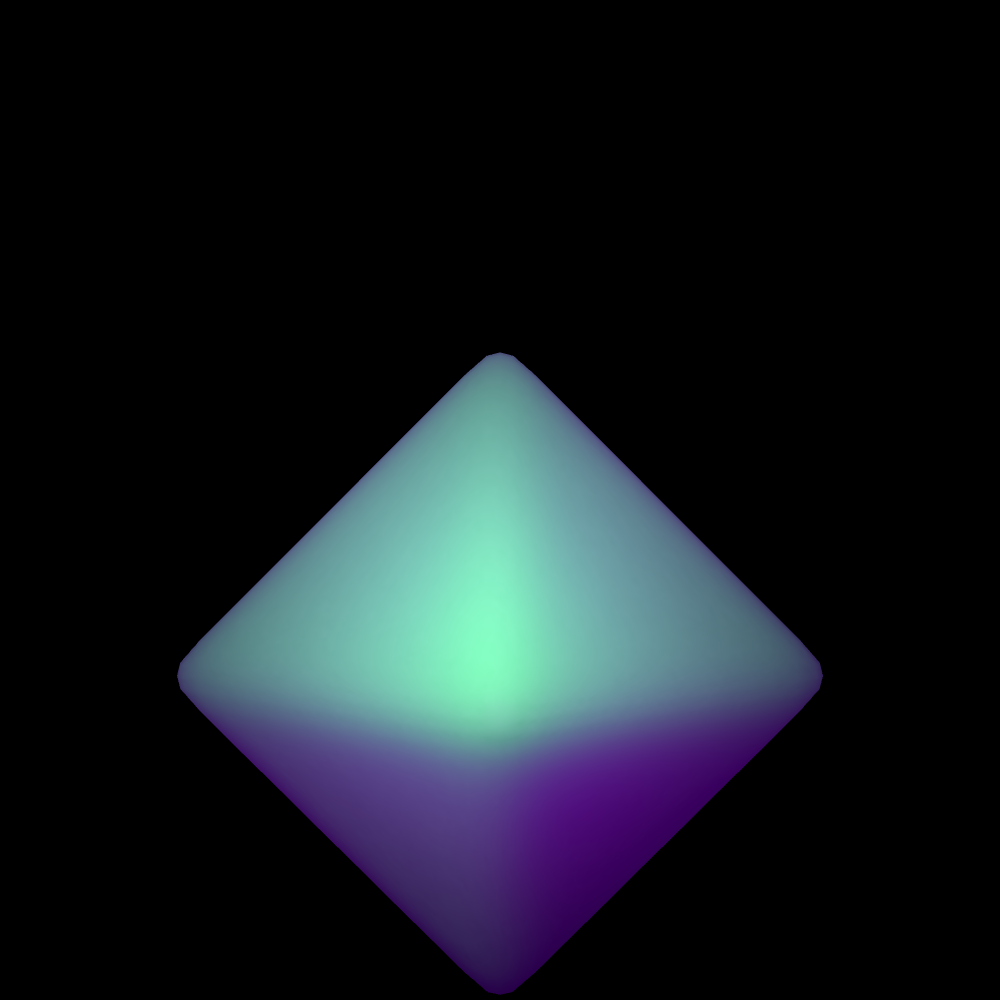
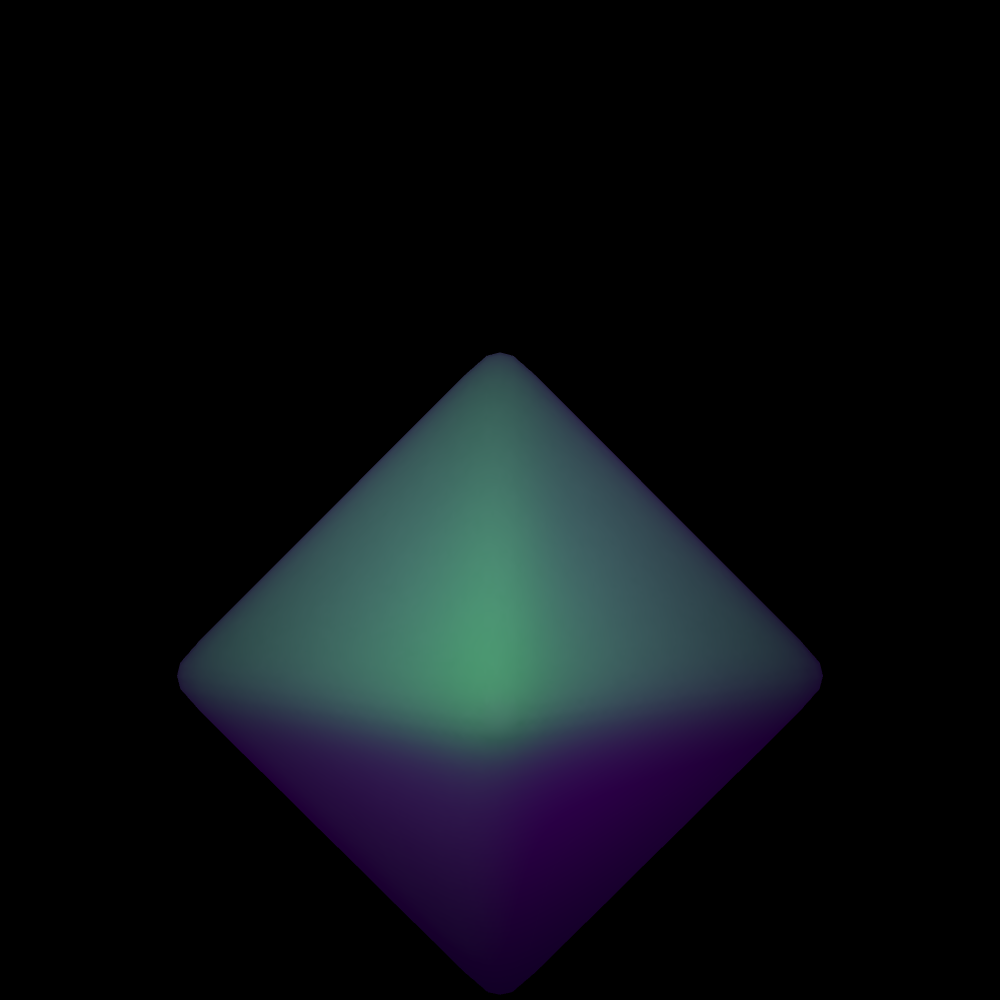
add the missing 1/pi

Changed region(s): [[0.155, 0.341, 0.837, 1.0]]

diff --git a/src/main.py b/src/main.py
@@ -1,22 +1,25 @@
 from __future__ import annotations
-import time
-from typing import NamedTuple
-from OpenGL import GL as gl
-from matplotlib import pyplot as plt
-from pyrr import Vector3
-from camera import Camera
-import luisa
-from luisa.mathtypes import *
-from luisa.accel import offset_ray_origin
-from luisa import RandomSampler
-import moderngl
-import tinyobjloader
-import numpy as np
+
 import json
-from enum import Enum
 import math
 import sys
+import time
+from enum import Enum
+from typing import NamedTuple
 
+import luisa
+import moderngl
+import numba
+import numpy as np
+import tinyobjloader
+from OpenGL import GL as gl
+from luisa import RandomSampler
+from luisa.accel import offset_ray_origin
+from luisa.mathtypes import *
+from matplotlib import pyplot as plt
+from pyrr import Vector3
+
+from camera import Camera
 
 DeviceDirectionLight = luisa.StructType(direction=float3, emission=float3)
 DevicePointLight = luisa.StructType(position=float3, emission=float3)
@@ -100,6 +103,37 @@ class Equation(Enum):
 equation: Equation = Equation.Undefined
 
 
+@numba.jit
+def normal_array_kernel(triangle_array, normal_index_array, normal_vectors, vertex_num):
+    normal_array = np.empty((vertex_num, 3), dtype=np.float32)
+    for normal_index, vertex_index in zip(normal_index_array, triangle_array):
+        normal_array[vertex_index] = normal_vectors[normal_index]
+    return normal_array
+
+
+@numba.jit
+def surface_area_kernel(triangle_array, vertex_array):
+    surface_areas = np.zeros(vertex_array.shape[0], dtype=np.float32)
+    for i in range(0, len(triangle_array), 3):
+        i0, i1, i2 = triangle_array[i:i + 3]
+        p0, p1, p2 = vertex_array[i0], vertex_array[i1], vertex_array[i2]
+        local_surface_area = np.linalg.norm(np.cross(p1 - p0, p2 - p0)) * 0.5
+        surface_areas[i0] += local_surface_area / 3
+        surface_areas[i1] += local_surface_area / 3
+        surface_areas[i2] += local_surface_area / 3
+    return surface_areas
+
+
+@numba.jit
+def ccw_check_kernel(triangle_array, vertex_array, normal_array):
+    for i in range(0, len(triangle_array), 3):
+        i0, i1, i2 = triangle_array[i:i + 3]
+        p0, p1, p2 = vertex_array[i0], vertex_array[i1], vertex_array[i2]
+        n = np.cross(p1 - p0, p2 - p0)
+        if np.dot(n, normal_array[i0]) < 0:
+            triangle_array[i], triangle_array[i + 1] = i1, i0
+
+
 def parse_scene(filename: str):
     with open(filename, 'r') as file:
         scene_data = json.load(file)
@@ -109,37 +143,32 @@ def parse_scene(filename: str):
         reader = tinyobjloader.ObjReader()
         # parse the model to be rendered, add model data to array lists
         offset = 0
-        reader.ParseFromFile(scene_data["render_model"])
+        if not reader.ParseFromFile(scene_data["render_model"]):
+            print("Failed to parse model")
+            exit(0)
+        else:
+            print("Received model data...")
         attrib = reader.GetAttrib()
         global model_vertex_count
         vertex_array = np.array(attrib.vertices, dtype=np.float32).reshape(-1, 3)
         model_vertex_count = vertex_array.shape[0]
         normal_vectors = np.array(attrib.normals, dtype=np.float32).reshape(-1, 3)
-        normal_vectors /= np.linalg.norm(normal_vectors, axis=1).reshape((-1, 1))
-        normal_array = np.empty_like(vertex_array, dtype=np.float32)
-        for shape in reader.GetShapes():
-            for index in shape.mesh.indices:
-                normal_array[index.vertex_index] = normal_vectors[index.normal_index]
-        vertex_arrays.append(vertex_array)
-        normal_arrays.append(normal_array)
+        normal_index_array = np.array([
+            index.normal_index for shape in reader.GetShapes() for index in shape.mesh.indices
+        ], dtype=np.int32)
         triangle_array = np.array([
             index.vertex_index for shape in reader.GetShapes() for index in shape.mesh.indices
         ])
+        normal_array = normal_array_kernel(triangle_array, normal_index_array, normal_vectors, vertex_array.shape[0])
+        normal_array /= np.linalg.norm(normal_array, axis=1).reshape((-1, 1))
+        vertex_arrays.append(vertex_array)
+        normal_arrays.append(normal_array)
         # calculate total surface area of the model
         # also the wrongly wired triangles are re-sorted in this part to support face culling
-        surface_areas = np.zeros((model_vertex_count, 1), dtype=np.float32)
-        for i in range(0, len(triangle_array), 3):
-            i0, i1, i2 = triangle_array[i:i+3]
-            p0, p1, p2 = map(lambda x: vertex_array[x], (i0, i1, i2))
-            local_normal = np.cross(p1 - p0, p2 - p0)
-            average_normal = normal_array[i0] + normal_array[i1] + normal_array[i2]
-            if np.dot(local_normal, average_normal) < 0:
-                triangle_array[i], triangle_array[i + 1] = triangle_array[i + 1], triangle_array[i]
-            local_surface_area = np.linalg.norm(np.cross(p1 - p0, p2 - p0)) * 0.5
-            surface_areas[i0] += local_surface_area / 3
-            surface_areas[i1] += local_surface_area / 3
-            surface_areas[i2] += local_surface_area / 3
+        surface_areas = surface_area_kernel(triangle_array, vertex_array).reshape(-1, 1)
+        ccw_check_kernel(triangle_array, vertex_array, normal_array)
         triangle_arrays.append(triangle_array)
+        print("Model data parsing done...")
         # upload vertex array and normal array to GL
         global vbo, ibo, nbo
         vbo = ctx.buffer(np.hstack((vertex_array, surface_areas)))
@@ -174,7 +203,7 @@ def parse_scene(filename: str):
         if surface_lights:
             surface_light_buffer.copy_from_list(surface_lights)
             surface_light_count = len(surface_lights)
-        direction_lights =\
+        direction_lights = \
             [DeviceDirectionLight(
                 direction=make_float3(*light["direction"]),
                 emission=make_float3(*light("emission"))
@@ -240,7 +269,6 @@ class Parameters(NamedTuple):
 
 
 def calculate_parameters():
-    print(sigma_s, sigma_a, g, eta)
     sigma_s_prime = sigma_s * (1.0 - g)
     sigma_t_prime = sigma_s_prime + sigma_a
     alpha_prime = sigma_s_prime / sigma_t_prime
@@ -254,7 +282,7 @@ def calculate_parameters():
         math.sqrt(3.0 * (1.0 - alpha_prime.x)),
         math.sqrt(3.0 * (1.0 - alpha_prime.y)),
         math.sqrt(3.0 * (1.0 - alpha_prime.z)))
-    )
+          )
     sigma_tr = make_float3(
         math.sqrt(3.0 * (1.0 - alpha_prime.x)),
         math.sqrt(3.0 * (1.0 - alpha_prime.y)),
@@ -271,6 +299,13 @@ def calculate_parameters():
 
 
 @luisa.func
+def fresnel_schlick(c):
+    f0 = (eta - 1.) / (eta + 1.)
+    f0 *= f0
+    return 1. - lerp(f0, 1., pow(max(0., 1. - c), 5.))
+
+
+@luisa.func
 def vertex_influx_kernel(influx):
     acc = make_float3(0.0)
     idx = dispatch_id().x
@@ -282,13 +317,15 @@ def vertex_influx_kernel(influx):
         direction = point_light.position - vertex
         probe_ray = make_ray(offset_ray_origin(vertex, normal), normalize(direction), 1e-2, length(direction))
         if not accel.trace_any(probe_ray):
-            acc += point_light.emission * max(dot(normal, normalize(direction)), 0.0)
+            acc += point_light.emission * max(dot(normal, normalize(direction)), 0.0) * fresnel_schlick(
+                max(0., dot(normal, probe_ray.get_dir())))
     for i in range(direction_light_count):
         direction_light = direction_light_buffer.read(i)
         direction = normalize(-direction_light.direction)
         probe_ray = make_ray(offset_ray_origin(vertex, normal), direction, 1e-2, 1e10)
         if not accel.trace_any(probe_ray):
-            acc += direction_light.emission * max(dot(normal, direction), 0.0)
+            acc += direction_light.emission * max(dot(normal, direction), 0.0) * fresnel_schlick(
+                max(0., dot(normal, direction)))
     sampler = RandomSampler(make_int3(idx))
     for i in range(spp):
         # TODO add light importance sampling to accelerate convergence
@@ -308,7 +345,9 @@ def vertex_influx_kernel(influx):
             n1 = normal_buffer.read(i1)
             n2 = normal_buffer.read(i2)
             n = normalize(hit.interpolate(n0, n1, n2))
-            acc += surface_light.emission * abs(dot(n, direction)) * math.pi / float(spp)
+            cos_light = abs(dot(n, ray.get_dir()))
+            acc += surface_light.emission * fresnel_schlick(
+                max(0., dot(normal, ray.get_dir()))) * cos_light / float(spp)
     influx.write(idx, acc)
 
 
@@ -329,6 +368,7 @@ def linear_to_srgb(x):
 def main():
     res = (1000, 1000)
     camera = Camera(Vector3([0.0, 1.0, 8.0]), Vector3([0.0, 0.5, 0.0]), res, 20.0)
+    print("Starting to parse scene data...")
     parse_scene(sys.argv[1])
     shader = ctx.program(
         vertex_shader=
@@ -494,7 +534,7 @@ def main():
     buffer = bytearray(res[0] * res[1] * 4 * 4)
     render_target.read_into(buffer)
     postfix = sys.argv[1].split('/')[-1].split('\\')[-1].split('.')[0] + '-' + str(equation).lower().split('.')[-1]
-    plt.imsave(f"result-{postfix}.png", np.frombuffer(buffer, dtype=np.float32).reshape(res + (-1,))[::-1, ::-1])
+    plt.imsave(f"result-teaser-dipole.png", np.frombuffer(buffer, dtype=np.float32).reshape(res + (-1,))[::-1, ::-1])
 
 
 if __name__ == "__main__":
